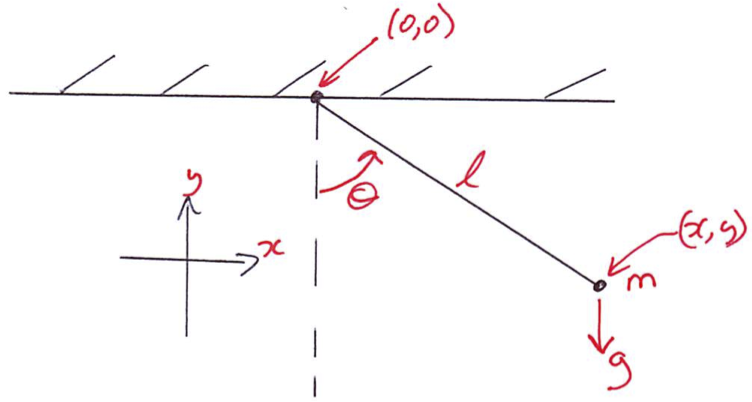
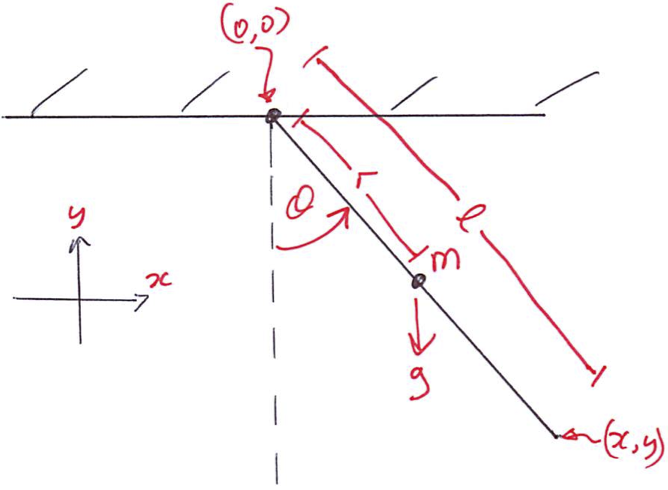
5

diff --git a/html/5_Computational_Motor_Control_Dynamics.html b/html/5_Computational_Motor_Control_Dynamics.html
@@ -223,7 +223,12 @@ for the JavaScript code below.
 <li><a href="#sec-2">Equations of motion for a one-joint arm</a>
 <ul>
 <li><a href="#sec-2-1">Euler-Lagrange Equation</a></li>
-<li><a href="#sec-2-2">Kinetic Energy \(T\)</a></li>
+<li><a href="#sec-2-2">Kinetic Energy \(T\)</a>
+<ul>
+<li><a href="#sec-2-2-1">Linear kinetic energy</a></li>
+<li><a href="#sec-2-2-2">Rotational kinetic energy</a></li>
+</ul>
+</li>
 <li><a href="#sec-2-3">Potential Energy \(U\)</a></li>
 <li><a href="#sec-2-4">Lagrangian \(L\)</a></li>
 <li><a href="#sec-2-5">Equation of motion</a></li>
@@ -276,10 +281,11 @@ and let's put it in a vertical plane, with gravity acting down:
 
 <p>
 We have a single link of length \(l\) that is represented as a uniform
-rod with centre of mass \(m\) kg located \(l\) metres from the origin
-(about which the link rotates). The angle \(\theta\) is the angle
-between the horizontal and the link, and we have the force of gravity
-\(g\) acting in the downward direction.
+rod of length \(l\) metres, with centre of mass \(m\) kg located \(r\)
+metres from the origin (about which the link rotates), and with
+rotational <a href="http://en.wikipedia.org/wiki/Moment_of_inertia">moment of inertia</a> \(i\) (kgm\(^{2}\)). The angle \(\theta\) is
+the angle between the horizontal and the link, and we have the force
+of gravity \(g\) acting in the downward direction.
 </p>
 <p>
 There are many ways of deriving the equations of motion of a dynamical
@@ -356,19 +362,85 @@ Euler-Lagrange equation to get generalized forces \(Q_{j}\).
 
 
 <p>
-So first let's write down the <a href="http://en.wikipedia.org/wiki/Kinetic_energy">kinetic energy</a> \(T\). We know that for a
-point mass (and we are representing our link as a point mass \(m\) kg
-located \(l\) metres away from a rotary joint), the kinetic energy is
-\(\frac{1}{2}mv^{2}\) where \(v\) is velocity:
+So first let's write down the <a href="http://en.wikipedia.org/wiki/Kinetic_energy">kinetic energy</a> \(T\). There are two parts:
+the linear kinetic energy of the centre of mass \(m\), and the
+rotational kinetic energy of the rod.
+</p>
+
+</div>
+
+<div id="outline-container-2-2-1" class="outline-4">
+<h4 id="sec-2-2-1">Linear kinetic energy</h4>
+<div class="outline-text-4" id="text-2-2-1">
+
+
+<p>
+We know that for a point mass (and we are representing our link's
+centre of mass as a point mass \(m\) kg located \(\frac{l}{2}\) metres
+away from a rotary joint), the kinetic energy is \(\frac{1}{2}mv^{2}\)
+where \(v\) is velocity:
 </p>
 
 
 \begin{eqnarray}
-T &= &\frac{1}{2} m v^{2}\\
-T &= &\frac{1}{2} m (\dot{x}^{2} + \dot{y}^{2})\\
-T &= &\frac{1}{2} m \dot{x}^{2} + \frac{1}{2} m \dot{y}^{2}
+T_{lin} &= &\frac{1}{2} m v^{2}\\
+T_{lin} &= &\frac{1}{2} m (\dot{x}^{2} + \dot{y}^{2})\\
+T_{lin} &= &\frac{1}{2} m \dot{x}^{2} + \frac{1}{2} m \dot{y}^{2}
 \end{eqnarray}
 
+</div>
+
+</div>
+
+<div id="outline-container-2-2-2" class="outline-4">
+<h4 id="sec-2-2-2">Rotational kinetic energy</h4>
+<div class="outline-text-4" id="text-2-2-2">
+
+
+<p>
+For rotation, kinetic energy is:
+</p>
+
+
+\begin{equation}
+T_{rot} = \frac{1}{2} i \dot{\theta}^{2}
+\end{equation}
+
+<p>
+where \(i\) is the moment of inertia and $\dot{&theta;} is the angular
+velocity.
+</p>
+<p>
+Putting them together, the total kinetic energy of the system is:
+</p>
+
+
+\begin{equation}
+T = \frac{1}{2} m \dot{x}^{2} + \frac{1}{2} m \dot{y}^{2} + \frac{1}{2} i \dot{\theta}^{2}
+\end{equation}
+
+<p>
+We can transform the coordinates from extrinsic \((x,y)\) (location of
+centre of mass) to intrinsic \(\theta\) using the following relations,
+which we know from geometry:
+</p>
+
+
+\begin{eqnarray}
+x &= &r \sin\theta\\
+y &= &-r \cos\theta
+\end{eqnarray}
+
+<p>
+so if we substitute and simplify terms (not shown) we get:
+</p>
+
+
+\begin{equation}
+T = \frac{1}{2} m r^{2} \dot{\theta}^{2} + \frac{1}{2} i \dot{\theta}^{2}
+\end{equation}
+
+</div>
 </div>
 
 </div>
@@ -398,7 +470,7 @@ when the pendulum is pointing straight down, i.e. when \(\theta = 0\):
 
 
 \begin{equation}
-U = m g l \left( 1-\cos\theta \right)
+U = m g r \left( 1-\cos\theta \right)
 \end{equation}
 
 </div>
@@ -416,34 +488,7 @@ So now we have the Lagrangian \(L = T-U\) is:
 
 
 \begin{equation}
-L = \frac{1}{2} m \dot{x}^{2} + \frac{1}{2} m \dot{y}^{2} - m g l \left( 1-\cos\theta \right)
-\end{equation}
-
-<p>
-We can transform the coordinates from extrinsic \((x,y)\) to intrinsic
-\(\theta\) using the following relations, which we know from geometry:
-</p>
-
-
-\begin{eqnarray}
-x &= &l \sin\theta\\
-y &= &-l \cos\theta
-\end{eqnarray}
-
-<p>
-The reason we want to transform from \((x,y)\) into \(\theta\) is simply
-that we want to characterize our system in terms of a single
-generalized variable which we decide should be \(\theta\). The choice of
-generalized coordinate is not always as straightforward as it is here.
-</p>
-<p>
-So substituting the above relations for \(x\) and \(y\), once we do some
-algebra to simplify (not shown), we get:
-</p>
-
-
-\begin{equation}
-L = \frac{1}{2} m l^{2} \dot{\theta}^{2} - m g l(1-\cos\theta)
+L = T-U = \frac{1}{2} m r^{2} \dot{\theta}^{2} + \frac{1}{2} i \dot{\theta}^{2} - m g r \left( 1-\cos\theta \right)
 \end{equation}
 
 <p>
@@ -474,7 +519,7 @@ SymPy to do it for you.
 
 
 \begin{equation}
-\frac{\partial L}{\partial \theta} = -m g l \sin \theta
+\frac{\partial L}{\partial \theta} = -m g r \sin \theta
 \end{equation}
 
 <p>
@@ -483,7 +528,7 @@ and
 
 
 \begin{equation}
-\frac{\partial L}{\partial \dot{\theta}} = m l^{2} \dot{\theta}
+\frac{\partial L}{\partial \dot{\theta}} = \dot{\theta} \left( i + m r^{2} \right)
 \end{equation}
 
 <p>
@@ -493,7 +538,7 @@ and
 
 \begin{equation}
 \frac{d}{dt} \left( \frac{\partial L}{\partial \dot{\theta}}  \right) = 
-m l^{2} \ddot{\theta}
+\ddot{\theta} \left( i + m r^{2} \right)
 \end{equation}
 
 <p>
@@ -511,7 +556,7 @@ so plugging in the values from the calculus/algebra above,
 
 
 \begin{equation}
-Q = m l^{2} \ddot{\theta} + m g l \sin \theta
+Q = \ddot{\theta} \left( i + m r^{2}  \right) + m g r \sin\theta
 \end{equation}
 
 <p>
@@ -534,7 +579,7 @@ Our equation of motion:
 
 
 \begin{equation}
-Q = m l^{2} \ddot{\theta} + m g l \sin \theta
+Q = \ddot{\theta} \left( i + m r^{2}  \right) + m g r \sin\theta
 \end{equation}
 
 <p>
@@ -560,7 +605,7 @@ We can easily solve our equation of motion for \(\ddot{\theta}\):
 
 
 \begin{equation}
-\ddot{\theta} = \frac{Q - mgl\sin\theta}{ml^{2}}
+\ddot{\theta} = \frac{Q - mgr\sin\theta}{i + mr^{2}}
 \end{equation}
 
 <p>
@@ -569,13 +614,17 @@ Note that if the torque \(Q\) is zero, in other words if there is no <b>input</b
 
 
 \begin{equation}
-\ddot{\theta} = - \frac{g\sin\theta}{l}
+\ddot{\theta} = \frac{- mgr\sin\theta}{i + mr^{2}}
 \end{equation}
 
 <p>
 This characterizes the passive dynamics of the system (the dynamical
 behaviour of the system in the absence of any external driving
 torque).
+</p>
+<p>
+If you want to see the SymPy code for doing all this calculus, it is
+here: <a href="code/onejoint_lagrange.py">onejoint_lagrange.py</a>
 </p>
 </div>
 
@@ -593,14 +642,15 @@ Let's write a function, as we did earlier in the course for other systems, for t
 
 
 <pre class="src src-python"><span style="color: #af00ff;">from</span> scipy.integrate <span style="color: #af00ff;">import</span> odeint
-
 <span style="color: #af00ff;">def</span> <span style="color: #0000ff;">onejointarm</span>(state,t):
-<span style="color: #af5f00;">theta</span> = state[0]      <span style="color: #af0000;"># joint angle (rad)</span>
-<span style="color: #af5f00;">theta_dot</span> = state[1]  <span style="color: #af0000;"># joint velocity (rad/s)</span>
-<span style="color: #af5f00;">l</span> = 0.50              <span style="color: #af0000;"># link length (m)</span>
-<span style="color: #af5f00;">g</span> = 9.81              <span style="color: #af0000;"># gravitational constant (m/s/s)</span>
-<span style="color: #af5f00;">theta_ddot</span> = -g*sin(theta) / l
-<span style="color: #af00ff;">return</span> [theta_dot, theta_ddot]
+   theta = state[0]      <span style="color: #af0000;"># joint angle (rad)</span>
+   theta_dot = state[1]  <span style="color: #af0000;"># joint velocity (rad/s)</span>
+   m = 1.65              <span style="color: #af0000;"># kg</span>
+   r = 0.50              <span style="color: #af0000;"># link length (m)</span>
+   g = 9.81              <span style="color: #af0000;"># gravitational constant (m/s/s)</span>
+   i = 0.025             <span style="color: #af0000;"># moment of inertia (kg m m)</span>
+   theta_ddot = -(m*g*r*sin(theta)) / (i + (m*r*r))
+   <span style="color: #af00ff;">return</span> [theta_dot, theta_ddot]
 
 <span style="color: #af5f00;">t</span> = linspace(0.0,10.0,1001)   <span style="color: #af0000;"># 10 seconds sampled at 1000 Hz</span>
 <span style="color: #af5f00;">state0</span> = [90.0*pi/180.0, 0.0] <span style="color: #af0000;"># 90 deg initial angle, 0 deg/sec initial velocity</span>

diff --git a/code/onejoint_lagrange.py b/code/onejoint_lagrange.py
@@ -1,0 +1,18 @@
+from sympy import *
+
+m,r,i,l,a,t,g = symbols('m r i l a t g')
+x = r * sin(a(t))
+y = -r * cos(a(t))
+xd = diff(x,t)
+yd = diff(y,t)
+Tlin = 0.5 * m * ((xd*xd) + (yd*yd))
+Tlin = simplify(Tlin)
+ad = diff(a(t),t)
+Trot = 0.5 * i * ad * ad
+T = Tlin + Trot
+T = simplify(T)
+U = m * g * r * (1-cos(a(t)))
+L = T - U
+L = simplify(L)
+Q = diff(diff(L,diff(a(t))),t) - diff(L,a(t))
+pprint(Q)
